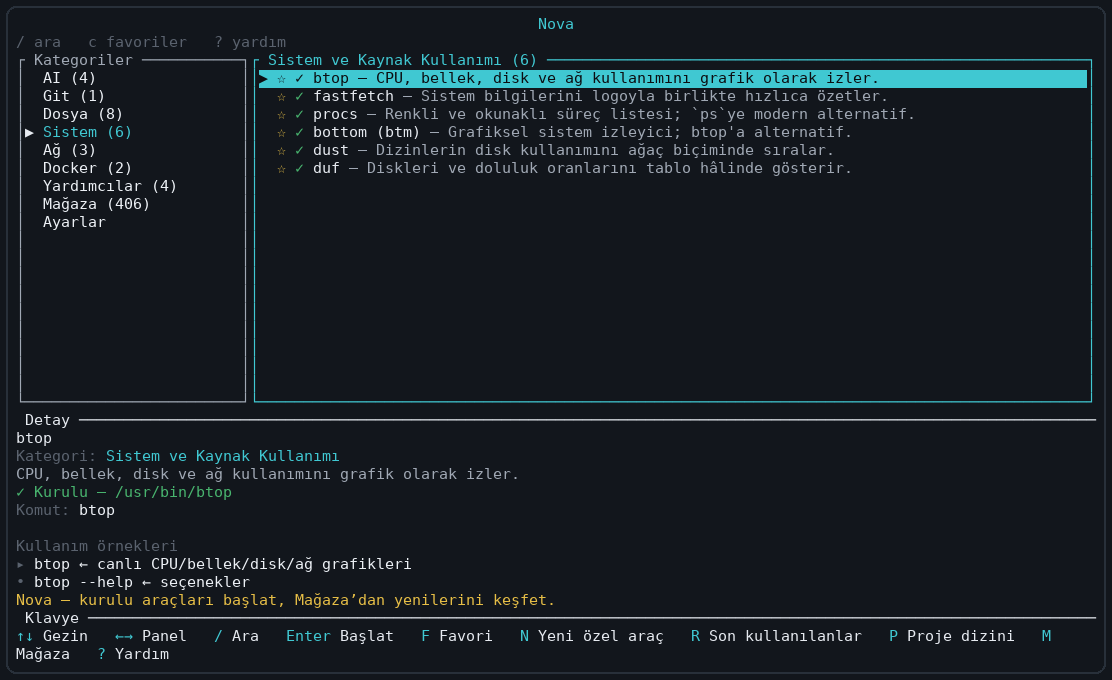
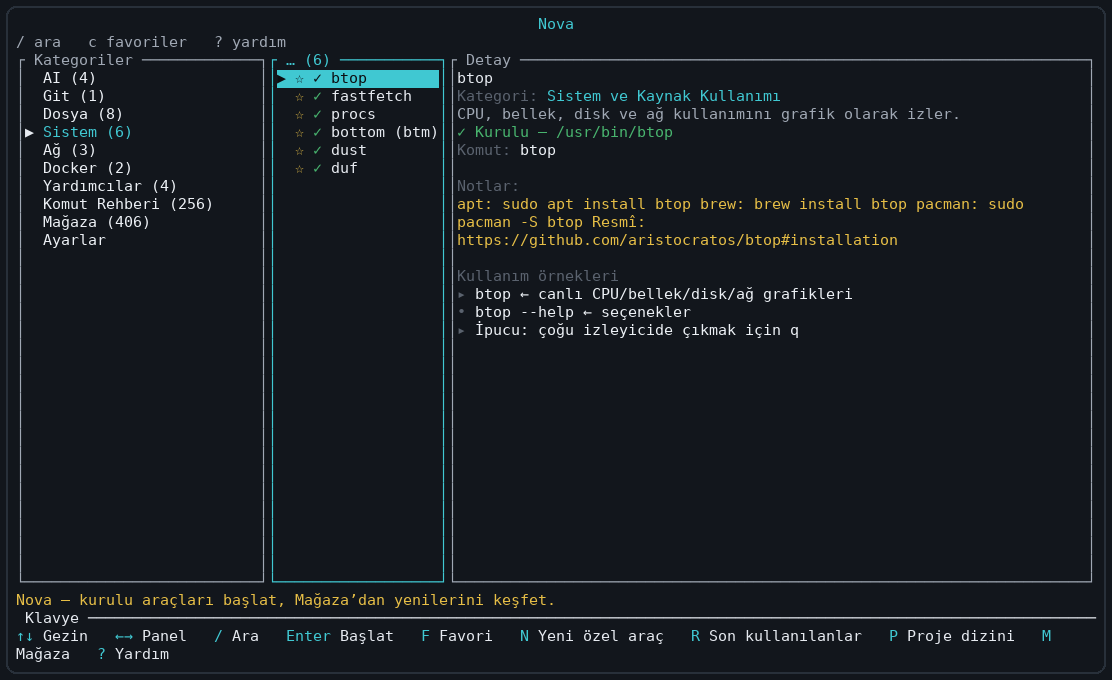
docs: refresh README screenshots via TestBackend capture
Recapture main list, Mağaza, Ayarlar, and Kurulu AI action modal from
real nova::ui::draw; add Komut Rehberi Başlangıç and görev/detay frames
(max 3 content panels, tr + varsayilan). Update README copy for modal
and guide IA; drop stale multi-column AI/guide layout wording.

diff --git a/tools/capture_screens.rs b/tools/capture_screens.rs
@@ -10,6 +10,7 @@
 
 use nova::app::{App, PanelFocus};
 use nova::catalog::{Catalog, CATEGORIES};
+use nova::commands::CommandsBrowseMode;
 use nova::detection::InstalledStatus;
 use ratatui::backend::TestBackend;
 use ratatui::style::Color;
@@ -30,6 +31,8 @@ fn main() {
     capture_store(&out);
     capture_settings(&out);
     capture_ai_actions(&out);
+    capture_commands_start(&out);
+    capture_commands_task_detail(&out);
 
     eprintln!("frames → {}", out.display());
 }
@@ -99,7 +102,7 @@ fn capture_main_list(out: &Path) {
     app.focus = PanelFocus::Tool;
     app.tool_index = 0;
     app.status_message = "Nova — kurulu araçları başlat, Mağaza’dan yenilerini keşfet.".into();
-    dump(&app, 120, 36, out.join("01-main-list.json"));
+    dump(&mut app, 120, 36, out.join("01-main-list.json"));
 }
 
 fn capture_store(out: &Path) {
@@ -116,7 +119,7 @@ fn capture_store(out: &Path) {
     app.store_app_index = 0;
     app.status_message =
         "Mağaza: imzalı katalog + Nova-Store repo (main). Arch’ta pacman tercih edilir.".into();
-    dump(&app, 140, 40, out.join("02-store.json"));
+    dump(&mut app, 140, 40, out.join("02-store.json"));
 }
 
 fn capture_settings(out: &Path) {
@@ -124,16 +127,17 @@ fn capture_settings(out: &Path) {
     app.select_settings_tab();
     app.settings_action_index = 0; // Güncelle (Nova)
     app.focus = PanelFocus::Tool; // Ayarlar listesi vurgulu
-    app.status_message = "Ayarlar: Güncelle (Releases + repo main) · Tema · Dil · Gelişmiş.".into();
+    app.status_message =
+        "Ayarlar: Güncelle · Mağaza kataloğu · Komut bankası · Tema · Dil · Gelişmiş.".into();
     // Ayarlar alt detay şeridini sade tutmak için AI kategorisinden çık.
     set_category(&mut app, "Sistem ve Kaynak Kullanımı");
-    dump(&app, 100, 32, out.join("03-settings.json"));
+    dump(&mut app, 100, 32, out.join("03-settings.json"));
 }
 
 fn capture_ai_actions(out: &Path) {
     let mut app = base_app();
     set_category(&mut app, "AI ve Kodlama");
-    // Claude Code seçili; aksiyon paneli yan yana (genişlik ≥ 110).
+    // Claude Code seçili; Enter → Mağaza tarzı aksiyon modalı.
     if let Some(idx) = app
         .filtered_tools()
         .iter()
@@ -145,11 +149,67 @@ fn capture_ai_actions(out: &Path) {
     if let Some(entry) = app.selected_tool().cloned() {
         app.open_tool_actions_menu(&entry);
     }
-    app.status_message = "AI araçları: Enter → Mağaza tarzı aksiyon modalı.".into();
-    dump(&app, 140, 36, out.join("04-ai-actions.json"));
+    app.status_message = "Kurulu AI: Enter → aksiyon modalı (Aç / Devam / …). Esc kapatır.".into();
+    dump(&mut app, 140, 36, out.join("04-ai-actions.json"));
 }
 
-fn dump(app: &App, width: u16, height: u16, path: PathBuf) {
+/// Komut Rehberi · Başlangıç — Mod + Liste + yan Detay (max 3; TR tema).
+fn capture_commands_start(out: &Path) {
+    let mut app = base_app();
+    app.select_commands_tab();
+    assert_eq!(app.commands_mode, CommandsBrowseMode::Start);
+    app.focus = PanelFocus::CommandsList;
+    app.commands_entry_index = 0;
+    app.status_message =
+        "Komut Rehberi · Başlangıç: öğrenme sırası. PATH ≠ katalog. Çalıştırma yok.".into();
+    // Yan detay için ≥140 sütun (tabs+mode+list_min+detail).
+    dump(&mut app, 160, 40, out.join("05-commands-start.json"));
+}
+
+/// Komut Rehberi · Göreve göre drill + yan detay (commit sonrası: Grup+Liste+Detay).
+///
+/// Eski 4 sütunlu (Mod+Grup+Liste+Detay) düzeni bilinçli olarak yakalanmaz —
+/// #62 yoğunluk kuralı: en fazla 3 içerik paneli.
+fn capture_commands_task_detail(out: &Path) {
+    let mut app = base_app();
+    app.select_commands_tab();
+    app.set_commands_mode(CommandsBrowseMode::ByTask);
+
+    // disks / Disk alanını kontrol et — net görev + ilgili komutlar.
+    let cats = app.commands_bank.task_categories();
+    if let Some(idx) = cats.iter().position(|c| *c == "disks") {
+        app.commands_category_index = idx;
+    }
+    let task_idx = app
+        .filtered_tasks()
+        .iter()
+        .position(|t| t.id == "check-disk-space")
+        .unwrap_or(0);
+    app.commands_entry_index = task_idx;
+    app.focus = PanelFocus::CommandsList;
+    // Enter ile aynı yol: drill + commit (breadcrumb; mod paneli gizlenir).
+    app.commands_task_drill = Some("check-disk-space".into());
+    app.commands_entry_index = 0;
+    app.commit_commands_guide();
+    // Örnekli bir komut satırı seç (detay dolu görünsün).
+    if let Some(idx) = app
+        .filtered_bank_commands()
+        .iter()
+        .position(|c| !c.examples.is_empty())
+    {
+        app.commands_entry_index = idx;
+    }
+    app.status_message =
+        "Göreve göre › Disk › Disk alanını kontrol et — ilgili komutlar; Enter çalıştırmaz.".into();
+    dump(&mut app, 160, 42, out.join("06-commands-task-detail.json"));
+}
+
+fn dump(app: &mut App, width: u16, height: u16, path: PathBuf) {
+    // draw yan-detay eşiklerini area’dan hesaplar; terminal_size odak/test
+    // yardımcıları için senkron tutulur.
+    app.terminal_size = Some((width, height));
+    app.narrow_mode = width < nova::ui::WIDE_MIN_WIDTH;
+
     let mut terminal = Terminal::new(TestBackend::new(width, height)).expect("TestBackend");
     terminal.draw(|f| nova::ui::draw(f, app)).expect("draw");
     let buffer = terminal.backend().buffer();

diff --git a/docs/screenshots/render_frames.py b/docs/screenshots/render_frames.py
@@ -85,6 +85,8 @@ def main() -> int:
         "02-store.json": "store.png",
         "03-settings.json": "settings.png",
         "04-ai-actions.json": "ai-actions.png",
+        "05-commands-start.json": "commands-start.png",
+        "06-commands-task-detail.json": "commands-task-detail.png",
     }
     for src_name, dst_name in mapping.items():
         src = frames_dir / src_name

diff --git a/README.md b/README.md
@@ -36,7 +36,8 @@ değiştirmez; onları bir araya getirir.
 | **Mağaza** | Ayrı katalog; arşiv+SHA-256, paket yöneticisi veya resmi yönerge. Arch’ta `pacman` önce |
 | **İmzalı + repo katalog** | [Nova-Store](https://github.com/Teknoloji-Filozoflari/Nova-Store) **Releases** (minisign) ve **`main` repo** senkronu — imza doğrulanmazsa uzak Releases verisi uygulanmaz |
 | **Nova self-update** | **GitHub Releases** ikilisi *ve* repo **`main`** üzerinden `cargo install --git` (ağ + derleme). İkisi birbirinin yerine geçmez |
-| **AI aksiyonları** | Seçili AI aracında detay yanında Aç / Devam / Çıkış / Yardım |
+| **AI aksiyonları** | Kurulu AI araçta `Enter` → Mağaza tarzı aksiyon modalı (Aç / Devam / Çıkış / Yardım) |
+| **Komut Rehberi** | Görev odaklı bilgi bankası (Başlangıç → Göreve göre…); PATH ≠ katalog; çalıştırma yok; en fazla 3 içerik paneli |
 | **Tema + dil** | Dokuz tema; `tr` varsayılan — en / ru / az / uz / kk / tk |
 | **Klavye + fare** | Liste tıklama/kaydırma; `Tab`/`Shift+Tab` panel odağı; odaklı panel `-`/`+` ile boyutlanır (ekran başına `state.toml`) |
 
@@ -78,10 +79,12 @@ tmux, …). Emülatör yokken arayüz gezilebilir; başlatma backend bulamazsa h
 ## Kullanım
 
 ```text
-┌──────────────┬──────────────────┬────────────────────────────┐
-│ Kategoriler  │ Araçlar / Mağaza │ Ayrıntı / AI eylemleri     │
-│  (+ Ayarlar) │                  │                            │
-└──────────────┴──────────────────┴────────────────────────────┘
+┌────────────┬───────────────────┬──────────────────────────────┐
+│ Kategoriler│ Araçlar / Mağaza /│ Ayrıntı (yan veya alt)       │
+│ + Rehber   │ Komut listesi     │ Kurulu AI: Enter → modal     │
+│ + Mağaza   │                   │ Rehber: max 3 içerik paneli  │
+│ + Ayarlar  │                   │                              │
+└────────────┴───────────────────┴──────────────────────────────┘
 ```
 
 | Tuş | İşlev |
@@ -95,6 +98,7 @@ tmux, …). Emülatör yokken arayüz gezilebilir; başlatma backend bulamazsa h
 | `c` / `r` / `p` | Yalnızca favoriler / geçmiş / proje dizinleri |
 | `s` | Ayarlar |
 | `m` | Mağaza |
+| `g` | Komut Rehberi |
 | `u` / `U` | Bağlama duyarlı güncelleme (Nova veya Mağaza) |
 | `G` | Nova: repo `main` → `cargo install --git` (güncelleme penceresinde) |
 | `o` | Dosya seçici |
@@ -107,7 +111,15 @@ tmux, …). Emülatör yokken arayüz gezilebilir; başlatma backend bulamazsa h
 Onay pencerelerinde `Enter` onaylar, `Esc` vazgeçer.
 
 <p align="center">
-  <img alt="Nova AI aksiyonları" src="docs/screenshots/ai-actions.png" width="820">
+  <img alt="Nova Kurulu AI aksiyon modalı" src="docs/screenshots/ai-actions.png" width="820">
+</p>
+
+<p align="center">
+  <img alt="Nova Komut Rehberi Başlangıç" src="docs/screenshots/commands-start.png" width="820">
+</p>
+
+<p align="center">
+  <img alt="Nova Komut Rehberi görev detayı" src="docs/screenshots/commands-task-detail.png" width="820">
 </p>
 
 ## Kurulu uygulamalar vs Mağaza

diff --git a/docs/screenshots/README.md b/docs/screenshots/README.md
@@ -1,7 +1,8 @@
 # Nova ekran görüntüleri
 
 Bu klasördeki PNG’ler README ürün sayfasında kullanılır. Hepsi **gerçek
-`nova::ui::draw` çıktısıdır** — elle çizilmiş mock değil.
+`nova::ui::draw` çıktısıdır** — elle çizilmiş mock değil. Dil **tr**, tema
+**varsayilan** (README ile aynı).
 
 ## Nasıl üretildi
 
@@ -9,14 +10,28 @@ Headless ortamda gerçek bir PTY / Konsole yok; bunun yerine uygulamadaki
 `TestBackend` yolunu (entegrasyon testleriyle aynı) kullanıyoruz:
 
 1. `tools/capture_screens.rs` — `App` durumunu ana liste / Mağaza / Ayarlar /
-   AI aksiyon ekranlarına getirir, `ui::draw` ile çizer, hücreleri JSON’a yazar.
+   Kurulu AI aksiyon modalı / Komut Rehberi (Başlangıç + görev detayı)
+   ekranlarına getirir, `ui::draw` ile çizer, hücreleri JSON’a yazar.
 2. `docs/screenshots/render_frames.py` — JSON hücrelerini monospace PNG’ye
    rasterize eder (DejaVu Sans Mono).
 
 ```bash
-cargo run --bin capture-screens -- docs/screenshots/frames
+cargo run --locked --bin capture-screens -- docs/screenshots/frames
 python3 docs/screenshots/render_frames.py docs/screenshots/frames docs/screenshots
 ```
+
+| PNG | Sahne |
+| --- | --- |
+| `main-list.png` | Kurulu ana liste (Sistem) |
+| `store.png` | Mağaza · Dosya ve Arama |
+| `settings.png` | Ayarlar (Nova güncelle / katalog / banka / tema / dil) |
+| `ai-actions.png` | Kurulu AI · Enter aksiyon modalı |
+| `commands-start.png` | Komut Rehberi · Başlangıç (Mod+Liste+Detay) |
+| `commands-task-detail.png` | Komut Rehberi · görev drill + yan detay (Grup+Liste+Detay) |
+
+Komut Rehberi kareleri **en fazla 3 içerik paneli** kuralına uyar (#62): eski
+Mod+Grup+Liste+Detay (4 sütun) düzeni yakalanmaz. Commit sonrası breadcrumb
+görev yolunu gösterir; komutlar otomatik çalıştırılmaz.
 
 Kurulu görünüm için yakalayıcı, katalogda seçili araçları
 `InstalledStatus::Installed` işaretler (PATH taraması yapmaz). Mağaza ve
